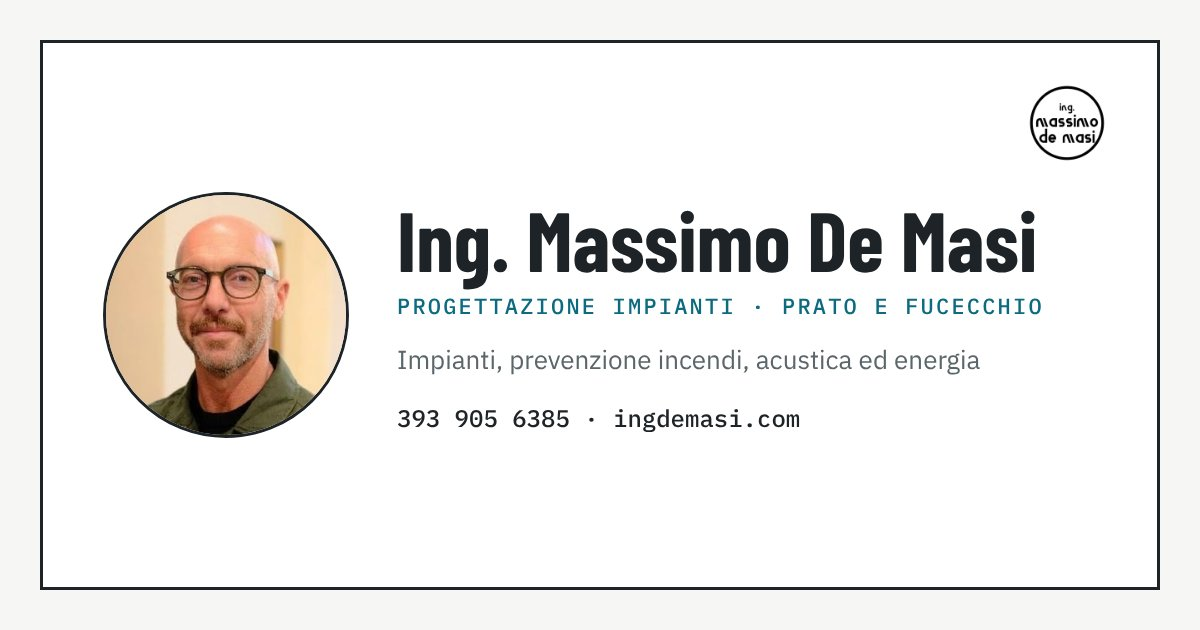
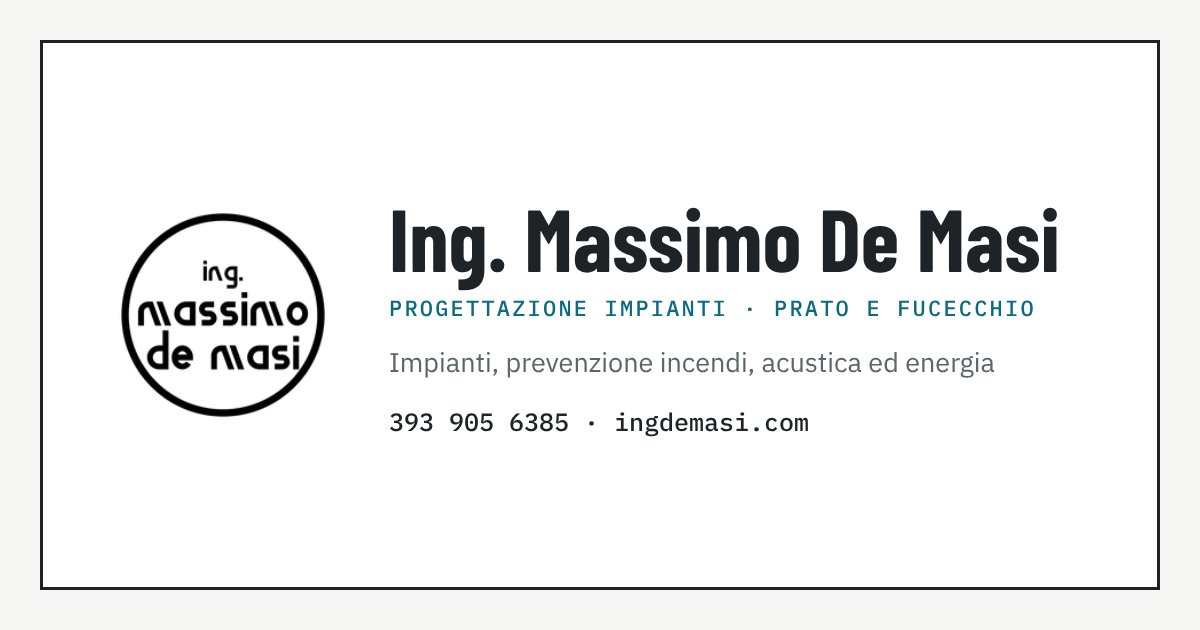
Biglietto: rimossa la foto
Claude-Session: https://claude.ai/code/session_019ji4t54fKkvyKVG8fCSHt1

Changed region(s): [[0.0617, 0.3016, 0.8942, 0.6937], [0.3083, 0.6333, 0.6783, 0.6937], [0.8325, 0.1206, 0.925, 0.2714]]

diff --git a/biglietto/index.html b/biglietto/index.html
@@ -9,7 +9,7 @@
 <meta property="og:title" content="Ing. Massimo De Masi – Studio di progettazione impianti">
 <meta property="og:description" content="Impianti, prevenzione incendi, acustica ed energia. Prato e Fucecchio. Tocca per salvare il contatto.">
 <meta property="og:url" content="https://www.ingdemasi.com/biglietto/">
-<meta property="og:image" content="https://www.ingdemasi.com/img/og-biglietto.jpg">
+<meta property="og:image" content="https://www.ingdemasi.com/img/og-biglietto.jpg?v=2">
 <meta property="og:image:width" content="1200"><meta property="og:image:height" content="630">
 <link rel="canonical" href="https://www.ingdemasi.com/biglietto/">
 <link rel="icon" href="/img/logo.png"><link rel="apple-touch-icon" href="/apple-touch-icon.png">
@@ -52,7 +52,6 @@ a:focus-visible{outline:2px solid var(--accent);outline-offset:3px}
   <img class="logo" src="/img/logo.png" alt="Logo Ing. Massimo De Masi">
   <div class="card">
     <div class="top">
-      <img class="ph" src="/img/massimo-de-masi.jpg?v=5" alt="Ing. Massimo De Masi">
       <div><h1>Ing. Massimo De Masi</h1><div class="label">Ingegnere · Progettazione impianti</div></div>
     </div>
     <div class="svc">Impianti meccanici, elettrici, acustici e antincendio · Fotovoltaico e pompe di calore · BMS · APE e Legge 10</div>
